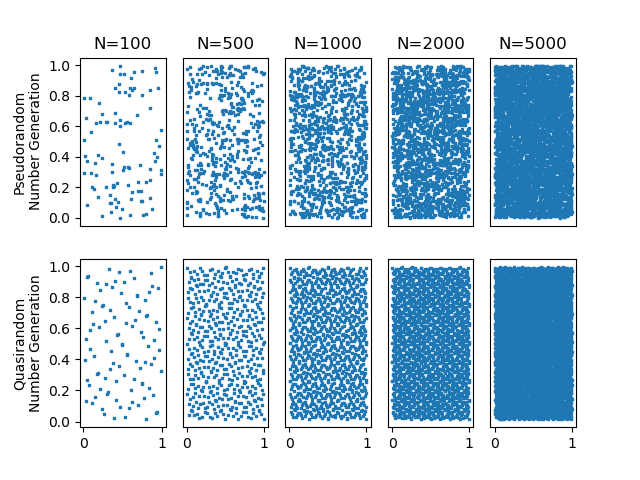
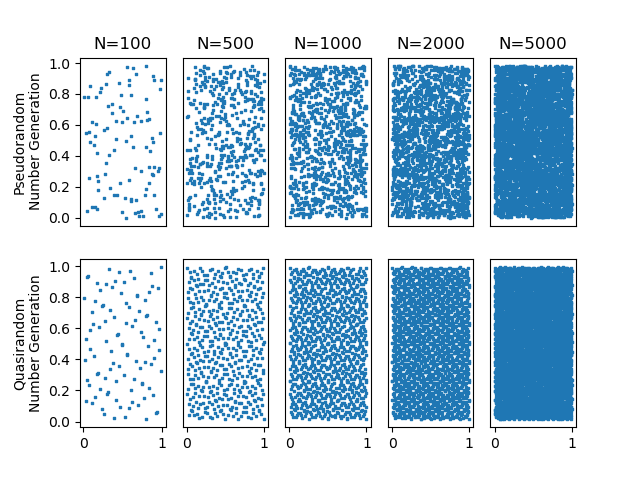
pic updates

diff --git a/README.md b/README.md
@@ -38,10 +38,11 @@ References
 
 
 ## (Part 1.1): Requirements (Experimental Design) **(10%)**
-####Problem
-The throughput of riders in the NYC subway system can get congested at certain time intervals in a day. Optimizing the direction of the subway escalators may alleviate some of the congestion by providing more paths in a desired direction during peak hours. 
-####Requirements
 
+####Problem
+The throughput of riders in the NYC subway system can get congested at certain time intervals in a day. Optimizing the direction of the subway escalators may alleviate some of the congestion by providing more paths in a desired direction during peak hours.
+
+####Requirements
 (remove: You should start by specifying a set of requirements. I specified a topic a Subway escalator. What exactly does that mean - practice formulating your own set of requirements and an experiment. Define problems cities face and hypothesize how a subway system could help alleviate these issue. This helps you think about your problem communication and system objectives inputs, functions, and outputs - they should be clearly specified.)
 
 ## (Part 1.2) Subway (My Problem) Model **(10%)**
@@ -104,11 +105,14 @@ Find a datasource that looks at part of this model - subway stations locations /
 
 This portion of the assignment looks at generating random numbers in Python and understanding how to properly plot them. Plot two different random numbers, pseudo random and quasi random, for five different N values. There should be 10 subplots, all properly formatted 2D plots. Note, each of the N points will have two coordinates, an x and a y, therefore you will need to generate two random numbers for each point. You should replace the image with your results in a simalar format. Discuss how the patterns differ. Feel free to change the N values from the suggested N values in the image to state your case.
 
-![Image of 2d template City](images/2Dtemplate.png)
+![Image of 2d template City](images/RNG.png)
 
 
 ## (Part 3.3) -  Plotting 1D Random Distributions **(15%)**
 
 Now, choose three different distributions to plot in 1D, or as a histogram. Choose a pseudo-random generator and generate three different distributions. Example distributions are Uniform (part 8), Normal, Exponential, Poisson, and Chi-Squared, but feel free to use any three distributions of your choice. Again, plot each distribution for five different Ns. This will result in 15 different subplots, formatted similar to the image in Part 8. Include your properly formmated 1D plots below and breifly describe what we are looking at and how things change as N is changed.
+![Image of 1D template City Pseudo](images/1D_PD_RNG.png)
+
 
 Repeat the above using a quasi-random generator. Discuss the similarities and differences.
+![Image of 1D template City Quasi](images/1D_QR_RNG.png)
